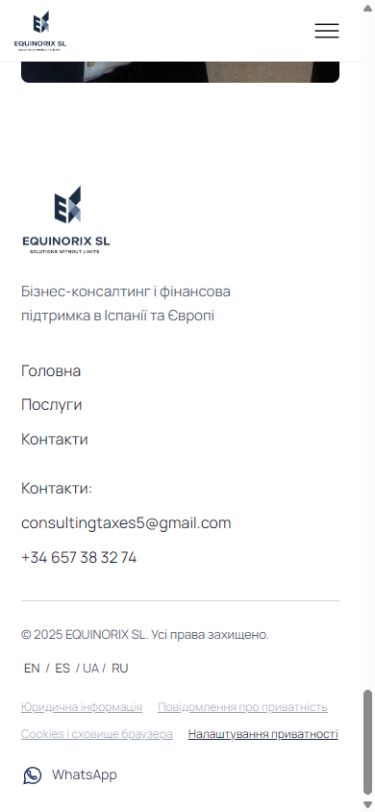
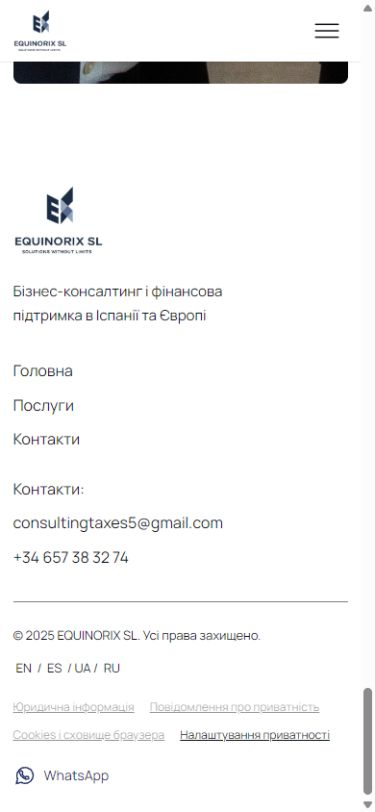
Align original palette and deploy independent GitHub Pages preview

diff --git a/site-copy/assets/design.css b/site-copy/assets/design.css
@@ -2,22 +2,20 @@
 @import url('/assets/design-services.css');
 
 /* Independent design study. The original v20 stylesheet remains intact. */
-:root{--ink:#172743;--muted:#566372;--paper:#fff;--line:#dce1e5;--brand:#1d2d65;--section-space:96px}
+:root{--ink:#0e1115;--muted:#838181;--paper:#fff;--line:#0e1115;--brand:#1d2d65;--section-space:96px}
 body{background:var(--paper);color:var(--ink);font-size:16px;line-height:1.6}
-.container{max-width:1248px;padding-inline:32px}
 .wrapper{overflow:clip}
 .title{font-size:clamp(30px,3.3vw,44px);font-weight:500;line-height:1.13;letter-spacing:-.04em;color:var(--ink);text-wrap:balance}
 .text{font-size:17px;line-height:1.65;color:var(--muted)}
-.btn_main{display:inline-flex;align-items:center;justify-content:center;gap:12px;min-height:54px;padding:15px 28px;border-radius:8px;background:var(--brand);font-size:16px;font-weight:500;line-height:1.4;transition:background .2s,transform .2s,box-shadow .2s}
-.btn_main:hover{background:#15224f;transform:translateY(-2px);box-shadow:0 8px 20px #1727431a}
-a:focus-visible,button:focus-visible,input:focus-visible,textarea:focus-visible{outline:3px solid #5376b5;outline-offset:5px}
+.btn_main{display:inline-flex;align-items:center;justify-content:center;gap:12px;min-height:0;padding:15px 46px;border-radius:30px;background:var(--brand);color:#fff;font-size:24px;font-weight:400;line-height:25px;text-align:center;transition:background .2s}
+.btn_main:hover{background:#0026ab;transform:none;box-shadow:none}
+a:focus-visible,button:focus-visible,input:focus-visible,textarea:focus-visible{outline:3px solid #1d2d65;outline-offset:5px}
 br{display:none}
-.first{display:flex;align-items:center;min-height:100vh;min-height:100svh;padding:230px 0 92px;background-image:linear-gradient(90deg,rgba(9,24,54,.84) 0%,rgba(13,32,66,.74) 38%,rgba(18,39,73,.62) 72%,rgba(13,32,66,.56) 100%),url('/assets/img/marbella-la-concha.webp');background-position:center;background-size:cover}
+.first{display:flex;align-items:center;min-height:100vh;min-height:100svh;padding:230px 0 92px;background-image:linear-gradient(180deg,rgba(13,25,52,0) 0%,rgba(13,25,52,.08) 18%,rgba(13,25,52,.42) 38%,rgba(13,25,52,.6) 62%,rgba(13,25,52,.44) 100%),url('/assets/img/marbella-la-concha.webp');background-position:center;background-size:cover}
 .first__content{max-width:790px;width:70%}
 .first__title{max-width:22ch;font-size:clamp(40px,4.1vw,62px);font-weight:500;line-height:1.08;letter-spacing:-.047em;color:#fff;text-wrap:balance}
 .first__text{max-width:47ch;margin-top:28px;font-size:18px;line-height:1.65;color:#fff}
 .first__btn{margin-top:32px}
-.first__btn .btn_main::after{content:'↗';margin-left:14px;font-size:20px;line-height:1}
 .form{padding:var(--section-space) 0;background:var(--paper)}
 .form__block{display:grid;grid-template-columns:minmax(0,1.05fr) minmax(0,.95fr);gap:72px;margin:0;align-items:start}
 .form__column,.form__column:first-child,.form__column:last-child{width:auto;padding:0;min-width:0}
@@ -29,8 +27,8 @@ br{display:none}
 .form__line.col-2{display:grid;grid-template-columns:repeat(2,minmax(0,1fr));gap:18px}
 .form__field{display:block;min-width:0}
 .form__label{display:block;margin-bottom:8px;font-size:13px;line-height:1.4;font-weight:500;color:var(--ink)}
-.form__main input[type=text],.form__main input[type=email],.form__main textarea{border:1px solid #cbd3da;border-radius:7px;background:#fafbfb;color:var(--ink);font-size:16px;line-height:1.5;padding:14px 16px;min-height:54px}
-.form__main input::placeholder,.form__main textarea::placeholder{color:#6a7581;opacity:1}
+.form__main input[type=text],.form__main input[type=email],.form__main textarea{border:1px solid #0e1115;border-radius:7px;background:rgba(0,0,0,.04);color:var(--ink);font-size:16px;line-height:1.5;padding:14px 16px;min-height:54px}
+.form__main input::placeholder,.form__main textarea::placeholder{color:#838181;opacity:1}
 .form__main input:focus,.form__main textarea:focus{background:#fff;border-color:var(--brand)}
 .form__main textarea{min-height:136px;resize:vertical}
 .form__btn{margin-top:26px}
@@ -44,32 +42,32 @@ br{display:none}
 .footer__base{display:grid;grid-template-columns:1fr 1.3fr;gap:80px;align-items:start}
 .footer__base-column{width:auto}
 .footer__logo{width:94px}
-.footer__text{display:block;max-width:290px;margin-top:24px;font-size:15px;line-height:1.65;color:var(--muted)}
+.footer__text{display:block;max-width:290px;margin-top:24px;font-size:15px;line-height:1.65;color:var(--ink)}
 .footer__base-menu{display:grid;grid-template-columns:.7fr 1.3fr;gap:48px;justify-content:initial}
 .footer__base-menu ul{display:flex;flex-direction:column;gap:12px}
 .footer__base-menu ul li a,.footer__base-menu ul li{margin:0;font-size:16px;line-height:1.6;color:var(--ink);overflow-wrap:anywhere}
 .footer__base-menu a:hover{text-decoration:underline;text-underline-offset:5px}
-.footer__more{display:flex;justify-content:space-between;align-items:center;gap:24px;border-top:1px solid #cbd3da;padding-top:24px;margin-top:44px}
-.footer__more-text,.footer__more-lang{font-size:13px;line-height:1.6;color:var(--muted)}
+.footer__more{display:flex;justify-content:space-between;align-items:center;gap:24px;border-top:1px solid rgba(0,0,0,.5);padding-top:24px;margin-top:44px}
+.footer__more-text,.footer__more-lang{font-size:13px;line-height:1.6;color:var(--ink)}
 .footer__more-lang a{color:var(--ink);padding:8px 3px}
 .footer__additional{display:flex;gap:24px;margin-top:20px;align-items:center}
 .footer__legal{font-size:12px;line-height:1.7;max-width:none;gap:6px 18px}
 .footer__social a{font-size:14px}
-dialog{border:1px solid var(--line);border-radius:12px;padding:32px;background:#fff;box-shadow:0 24px 100px #17274333}
+dialog{border:1px solid var(--line);border-radius:12px;padding:32px;background:#fff;box-shadow:0 24px 100px rgba(0,0,0,.2)}
 dialog h2{font-weight:500;letter-spacing:-.03em;color:var(--ink)}
-.cookie-actions .btn{border-radius:7px;font-size:14px}
+.cookie-actions .btn{border-radius:30px;font-size:14px}
+@media(max-width:1419px){.btn_main{padding:12px 38px;font-size:20px}}
 @media(min-width:768px) and (max-width:1023px){.first__content{width:80%}.form__block{gap:36px}.form__img img{height:720px}.footer__base{gap:40px}}
 @media(max-width:767px){
  :root{--section-space:56px}
- .container{max-width:none;padding-inline:22px}
  .title{font-size:32px;line-height:1.15}
  .text{font-size:16px;line-height:1.6}
- .first{padding:120px 0 70px;align-items:flex-start;background-position:58% center;background-image:linear-gradient(180deg,rgba(9,24,54,.82) 0%,rgba(13,32,66,.76) 65%,rgba(13,32,66,.56) 100%),url('/assets/img/marbella-la-concha.webp')}
+ .first{padding:120px 0 70px;align-items:flex-start;background-position:58% center;background-image:linear-gradient(180deg,rgba(13,25,52,0) 0%,rgba(13,25,52,.08) 12%,rgba(13,25,52,.42) 25%,rgba(13,25,52,.6) 48%,rgba(13,25,52,.44) 100%),url('/assets/img/marbella-la-concha.webp')}
  .first__content{width:100%;max-width:560px}
  .first__title{font-size:clamp(32px,7.5vw,42px);line-height:1.1;max-width:23ch;letter-spacing:-.04em}
  .first__text{margin-top:24px;font-size:16px;line-height:1.6;max-width:43ch}
  .first__btn{margin-top:28px}
- .btn_main{min-height:52px;padding:14px 24px;font-size:15px;line-height:1.5}
+ .btn_main{min-height:0;padding:12px 22px;font-size:16px;line-height:25px}
  .form__block{grid-template-columns:minmax(0,1fr);gap:36px}
  .form__main{margin-top:30px}.form__line.col-2{grid-template-columns:minmax(0,1fr);gap:18px}
  .form__title{line-height:1.15}.form__text{margin-top:18px}
@@ -93,15 +91,5 @@ dialog h2{font-weight:500;letter-spacing:-.03em;color:var(--ink)}
 
 /* Restore the v20 header layout; contrast follows the hero/scroll state. */
 .header{background:transparent;border:0;backdrop-filter:none}
-.header>.container{max-width:1372px;padding-inline:10px}
-.header:not(.is-scrolled):not(.header_active) .header__menu ul li a{color:#fff}
-.header:not(.is-scrolled):not(.header_active) .language-toggle{color:#fff;border-color:#fff}
-.header:not(.is-scrolled):not(.header_active) .header__logo img,.header:not(.is-scrolled):not(.header_active) .header__burger{filter:brightness(0) invert(1)}
-.header.is-scrolled{background:#fff;box-shadow:0 1px 0 #17274316}
-.first__btn .btn_main{background:#fff;color:#1d2d65;border-radius:999px}
-.first__btn .btn_main:hover{background:#eaf0ff}
-@media(max-width:1419px){.header>.container{max-width:1240px}}
+.header.is-scrolled{background:#fff;box-shadow:0 1px 0 rgba(0,0,0,.09)}
 @media(min-width:768px) and (max-width:1419px){.first{padding-top:158px}}
-@media(max-width:1239px){.header>.container{max-width:1024px}}
-@media(max-width:1023px){.header>.container{max-width:768px}}
-@media(max-width:767px){.header>.container{max-width:368px}}

diff --git a/site-copy/assets/design-services.css b/site-copy/assets/design-services.css
@@ -24,7 +24,7 @@
   max-width: 62ch;
   min-width: 0;
   margin: 0;
-  color: #566372;
+  color: #838181;
   font-size: 17px;
   line-height: 1.65;
 }
@@ -57,10 +57,10 @@
   min-height: 300px;
   height: auto;
   padding: 28px;
-  border: 1px solid #b8c3d0;
+  border: 1px solid #0e1115;
   border-radius: 16px;
   background: #fff;
-  color: #172743;
+  color: #0e1115;
   box-shadow: none;
   transform: none;
 }
@@ -82,7 +82,7 @@
   justify-content: center;
   min-width: 44px;
   padding: 7px 10px;
-  border: 1px solid #b8c3d0;
+  border: 1px solid #0e1115;
   border-radius: 8px;
   font-size: 18px;
   font-weight: 500;
@@ -92,7 +92,7 @@
 .services .services__item-title {
   min-height: 2.7em;
   margin: 24px 0 0;
-  color: #172743;
+  color: #0e1115;
   font-size: 22px;
   font-weight: 500;
   line-height: 1.35;
@@ -102,7 +102,7 @@
 
 .services .services__item-text {
   margin: 14px 0 0;
-  color: #566372;
+  color: #0e1115;
   font-size: 16px;
   line-height: 1.6;
   overflow-wrap: break-word;
@@ -128,9 +128,9 @@
   height: auto;
   aspect-ratio: 1;
   padding: 20px;
-  border: 1px solid #172743;
+  border: 1px solid #1d2d65;
   border-radius: 50%;
-  background: #172743;
+  background: #1d2d65;
   color: #fff;
   font-size: 18px;
   line-height: 1.4;
@@ -141,8 +141,8 @@
 }
 
 .services .services__btn .btn_main:hover {
-  border-color: #253d5c;
-  background: #253d5c;
+  border-color: #0026ab;
+  background: #0026ab;
   box-shadow: none;
   transform: none;
 }

diff --git a/site-copy/assets/design-sections.css b/site-copy/assets/design-sections.css
@@ -31,7 +31,7 @@
   margin: 0;
   padding: 8px 28px;
   row-gap: 0;
-  border: 1px solid #dce1e5;
+  border: 1px solid #0e1115;
   border-radius: 8px;
   background: #fff;
 }
@@ -42,8 +42,8 @@
   min-width: 0;
   min-height: 88px;
   padding: 20px 0 20px 52px;
-  border-bottom: 1px solid #dce1e5;
-  color: #172743;
+  border-bottom: 1px solid #0e1115;
+  color: #0e1115;
   font-size: 18px;
   font-weight: 400;
   line-height: 1.55;
@@ -76,7 +76,7 @@
 .founder-message .founder-message__copy .title {
   max-width: 18ch;
   margin: 0;
-  color: #172743;
+  color: #0e1115;
   font-size: clamp(28px, 3.4vw, 44px);
   font-weight: 500;
   line-height: 1.16;
@@ -87,7 +87,7 @@
 .founder-message .founder-message__intro {
   max-width: 64ch;
   margin: 24px 0 0;
-  color: #4c5b6b;
+  color: #0e1115;
   font-size: 18px;
   line-height: 1.7;
   overflow-wrap: break-word;

diff --git a/README.md b/README.md
@@ -4,7 +4,9 @@
 
 Окремий репозиторій: [Svip-web/equinorix-design](https://github.com/Svip-web/equinorix-design).
 
-Опублікована дизайнерська копія: [українська версія](https://equinorix-design.svip201517.chatgpt.site/uk/?v=2). Перегляд приватний і потребує входу через акаунт власника ChatGPT.
+Перегляд на GitHub Pages: [українська версія](https://svip-web.github.io/equinorix-design/uk/).
+
+Репозиторій публічний за прямим дозволом власника; GitHub Pages увімкнено. Збірку й публікацію виконує workflow нижче.
 
 ## Дизайн і функції
 
@@ -12,9 +14,9 @@
 
 Візуальні покращення цієї версії:
 
-Версія 2 містить погоджені уточнення шапки, синього затемнення, білого тексту, білих фонів і початкової композиції послуг.
+Поточне оновлення повертає спільну початкову сітку, світліше історичне затемнення та оригінальні кольори й кнопки.
 
-- Перший екран із фото Марбельї на висоту вікна, синьою підкладкою, білим текстом і білою головною кнопкою.
+- Перший екран із фото Марбельї на висоту вікна, попереднім світлішим затемненням, білим текстом і початковою синьою овальною кнопкою з білим текстом.
 - Компонування шапки повернуто до базової версії 20.
 - Усі секції після першого екрана мають білі фони.
 - Шість послуг у початковій асиметричній композиції на комп’ютері, з круглою CTA та номерами 01–06. Уточнено відступи й адаптивне розташування на менших екранах.
@@ -55,7 +57,19 @@ $env:EQUINORIX_PORT = '4177'
 npm run check
 ```
 
-`build` генерує чотири сторінки в `site-copy`. `check` перевіряє синтаксис JavaScript, мовні маршрути, ресурси, кількість послуг, тестовий стан форми й недоступність приватних резервних файлів. Перед публікацією версії 2 пройдено 173 перевірки та 40 браузерних перевірок: чотири мови на ширинах 320, 390, 767, 768, 1023, 1024, 1239, 1240, 1440 і 1920 px. Перевірено відсутність накладань карток і CTA, білі фони, білий текст першого екрана та мобільну шапку й меню. Код і текстовий зміст форми, мов та налаштувань приватності збережено.
+`build` генерує чотири сторінки в `site-copy`. `check` перевіряє синтаксис JavaScript, мовні маршрути, ресурси, кількість послуг, тестовий стан форми й недоступність приватних резервних файлів. Перед поточною публікацією пройдено 173 перевірки та 44 браузерні перевірки: чотири мови на ширинах 320, 390, 767, 768, 1023, 1024, 1239, 1240, 1440, 1699 і 1920 px. Перевірено спільну ліву межу всіх секцій і логотипа, початкові кольори й форму кнопок, відсутність накладань і виходу тексту за межі. Код і текстовий зміст форми, мов та налаштувань приватності збережено.
+
+## Підготовка GitHub Pages
+
+```powershell
+npm run build:pages
+```
+
+Команда спочатку збирає `site-copy`, потім створює лише з її вмісту окремий `pages-dist` із base path `/equinorix-design`. Кореневі HTML-посилання, CSS-ресурси та конкретні JS-шляхи до ресурсів адаптуються до підкаталогу. Текстові дані `page-data.t` та `page-data.u` зберігаються без змін. У цей артефакт не копіюються README, вихідні JSON, переписка, резервні копії чи файли налаштування проєкту.
+
+Workflow `.github/workflows/pages.yml` виконує збірку й розгортання за push у `codex/design-study` або ручним запуском. Він використовує Node.js, наявний в Ubuntu runner, без встановлення npm-залежностей. Результат кожної публікації доступний у вкладці Actions репозиторію.
+
+GitHub Pages обслуговує статичні файли. Режим `preview: true` залишається ввімкненим; серверне надсилання форми цим розгортанням не підключається.
 
 ## Що ще не підключено
 
